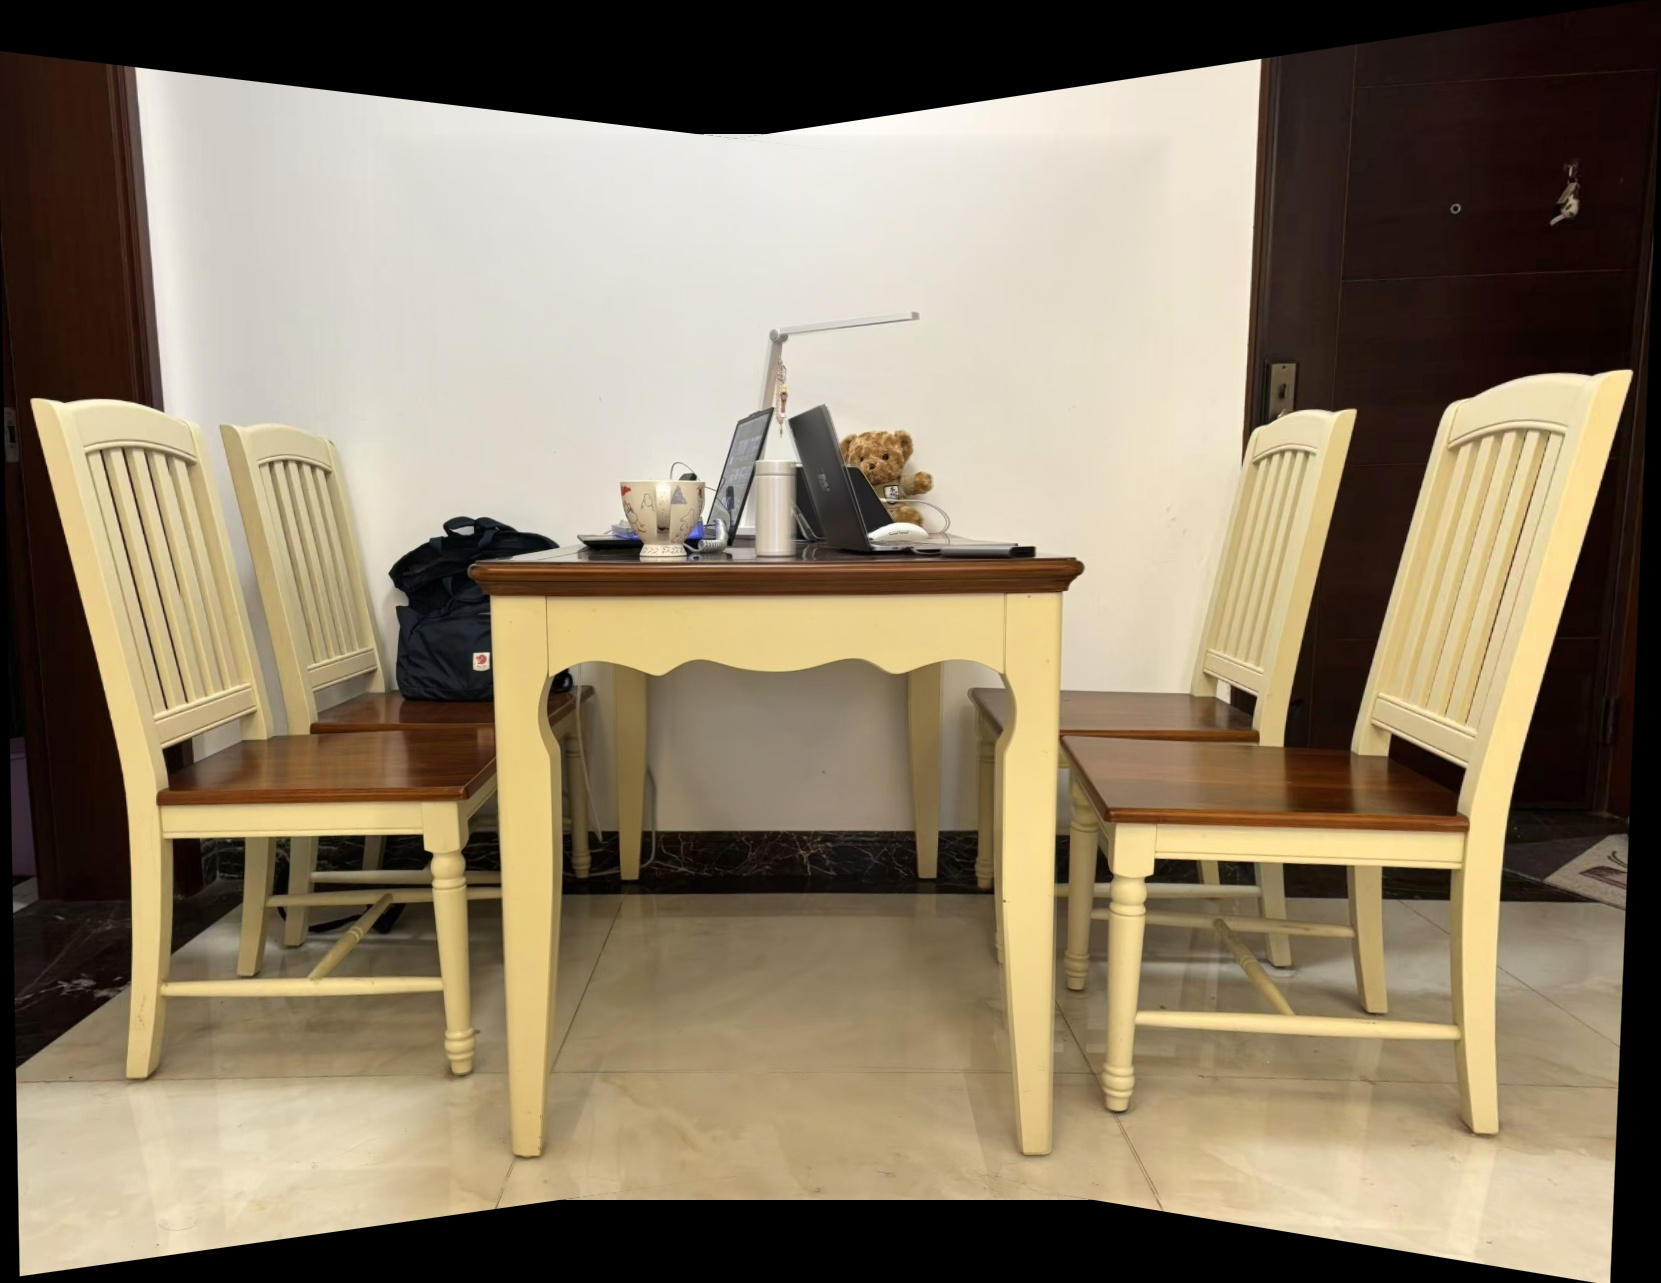
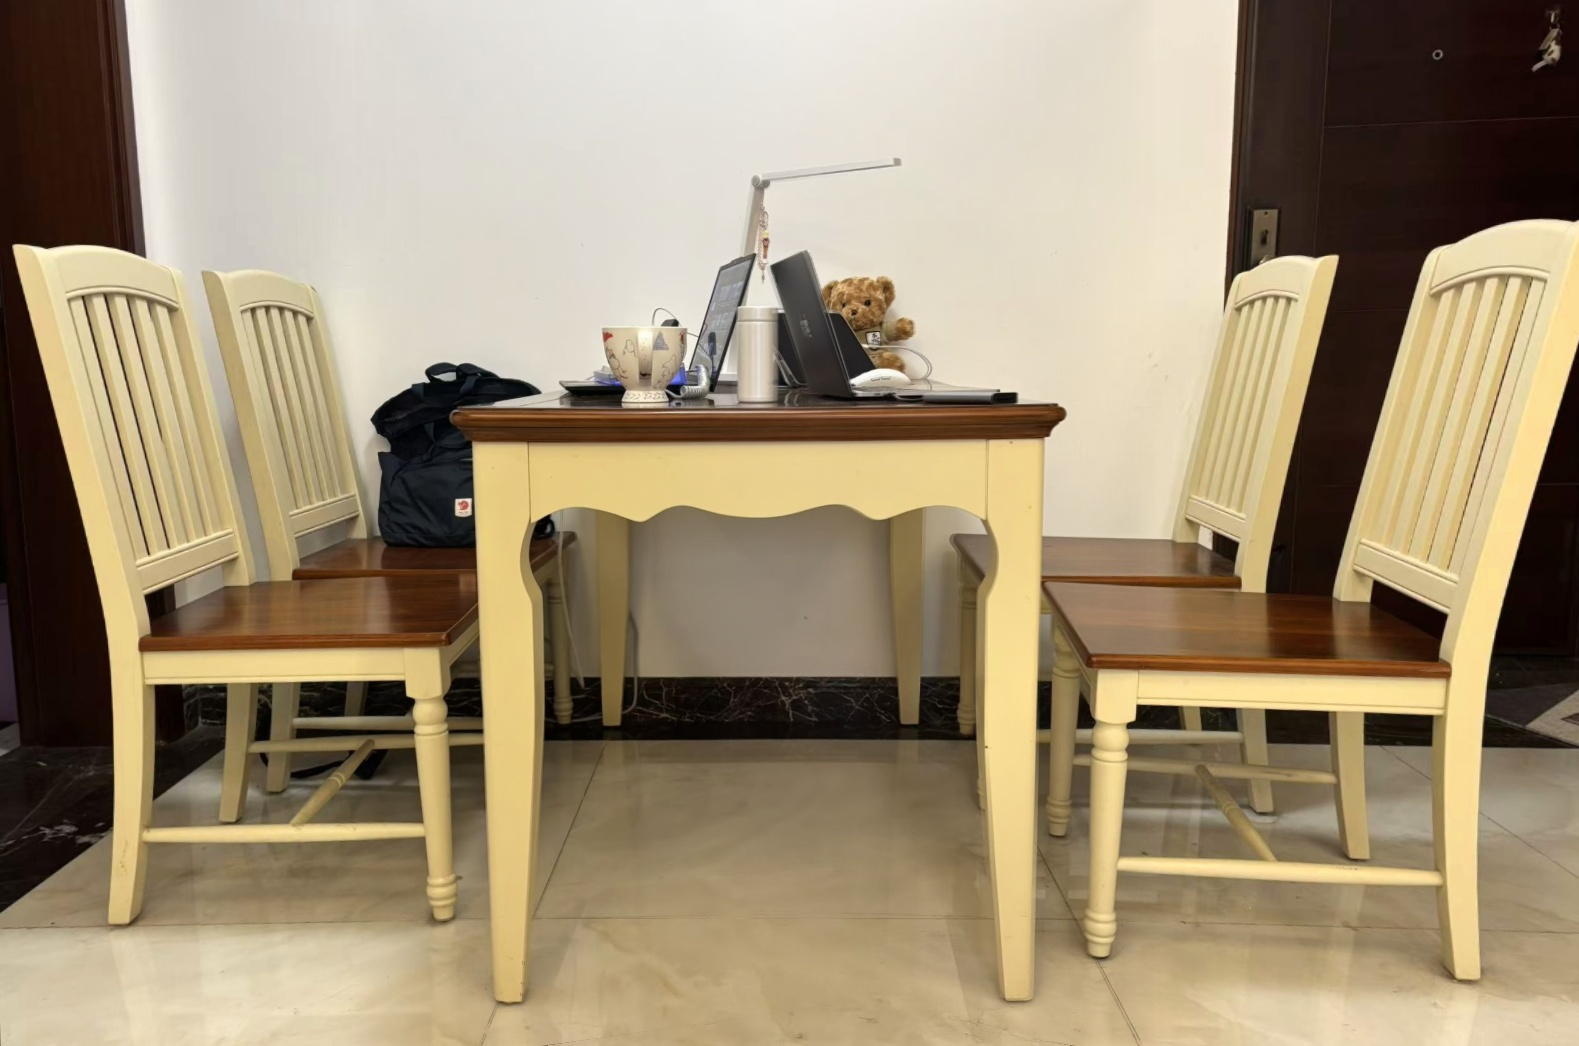
modify4
Cutting

diff --git a/stitch_3_imgs.py b/stitch_3_imgs.py
@@ -180,15 +180,30 @@ def stitch_images(left_img, mid_img, right_img):
     # --- Step 5: Post-processing (Crop black edges) ---
     print("[6/6] Auto-cropping...")
     gray = cv2.cvtColor(final_result, cv2.COLOR_BGR2GRAY)
-    _, thresh = cv2.threshold(gray, 5, 255, cv2.THRESH_BINARY)
-    coords = cv2.findNonZero(thresh)
-    if coords is not None:
-        x, y, w, h = cv2.boundingRect(coords)
-        # Add a small padding crop to remove edge artifacts
-        padding = 2
-        final_result = final_result[y+padding:y+h-padding, x+padding:x+w-padding]
+
+    _, thresh = cv2.threshold(gray, 25, 255, cv2.THRESH_BINARY)
+
+    kernel = np.ones((21, 21), np.uint8)
+    thresh = cv2.morphologyEx(thresh, cv2.MORPH_CLOSE, kernel, iterations=1)
+    thresh = cv2.erode(thresh, kernel, iterations=2)
+
+    contours, _ = cv2.findContours(thresh, cv2.RETR_EXTERNAL, cv2.CHAIN_APPROX_SIMPLE)
+    if contours:
+        c = max(contours, key=cv2.contourArea)
+        x, y, w, h = cv2.boundingRect(c)
+
+        pad_x = 20  
+        pad_y = 85
+
+        x2 = max(x + pad_x, 0)
+        y2 = max(y + pad_y, 0)
+        w2 = max(w - 2 * pad_x, 1)
+        h2 = max(h - 2 * pad_y, 1)
+
+        final_result = final_result[y2:y2+h2, x2:x2+w2]
 
     return final_result
+
 
 if __name__ == '__main__':
     # Load images
